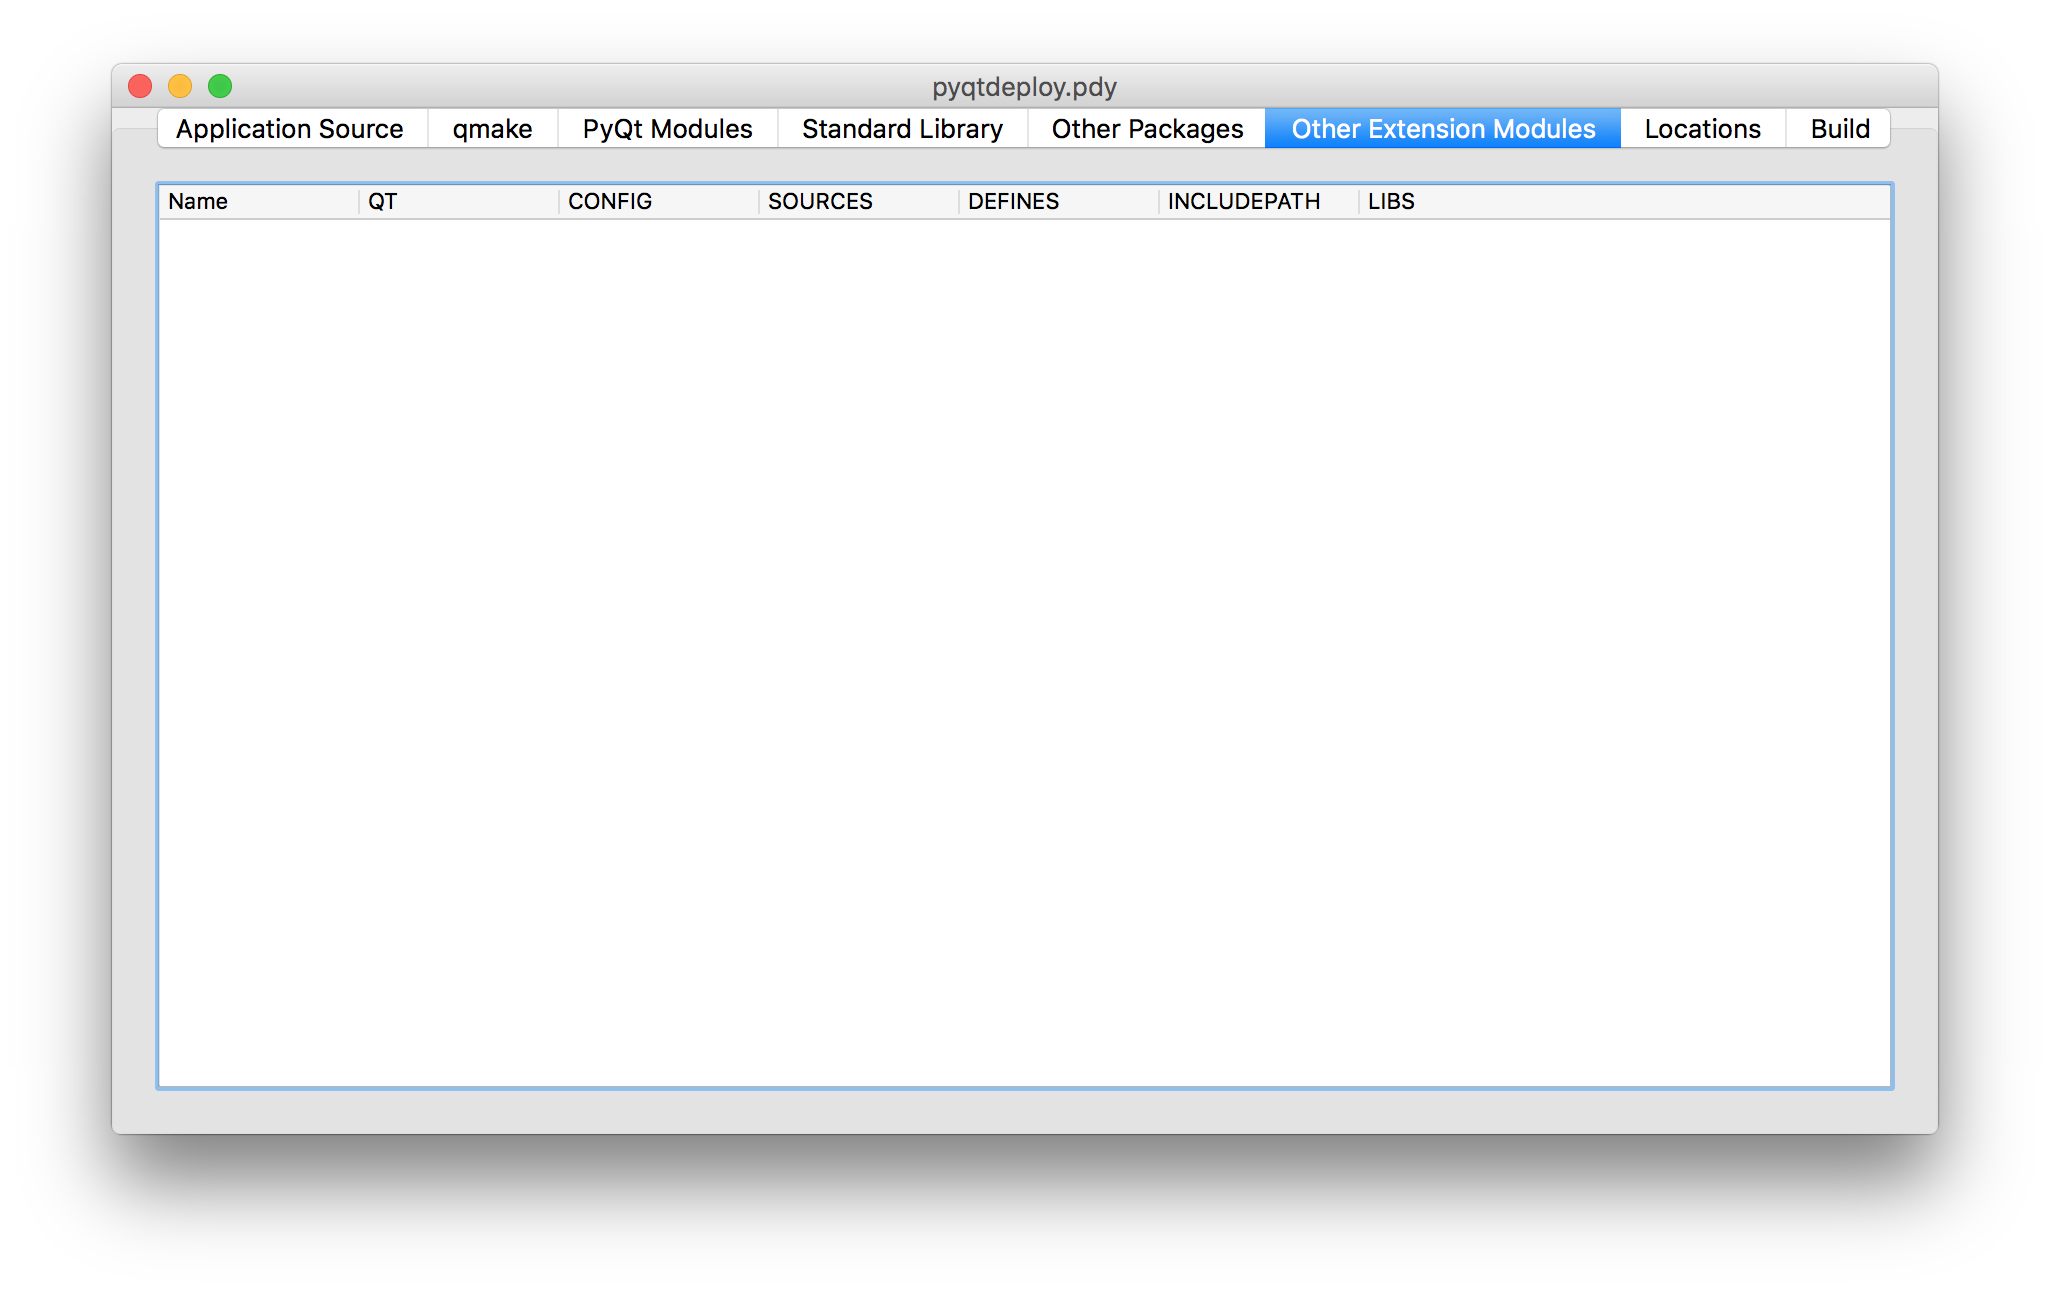
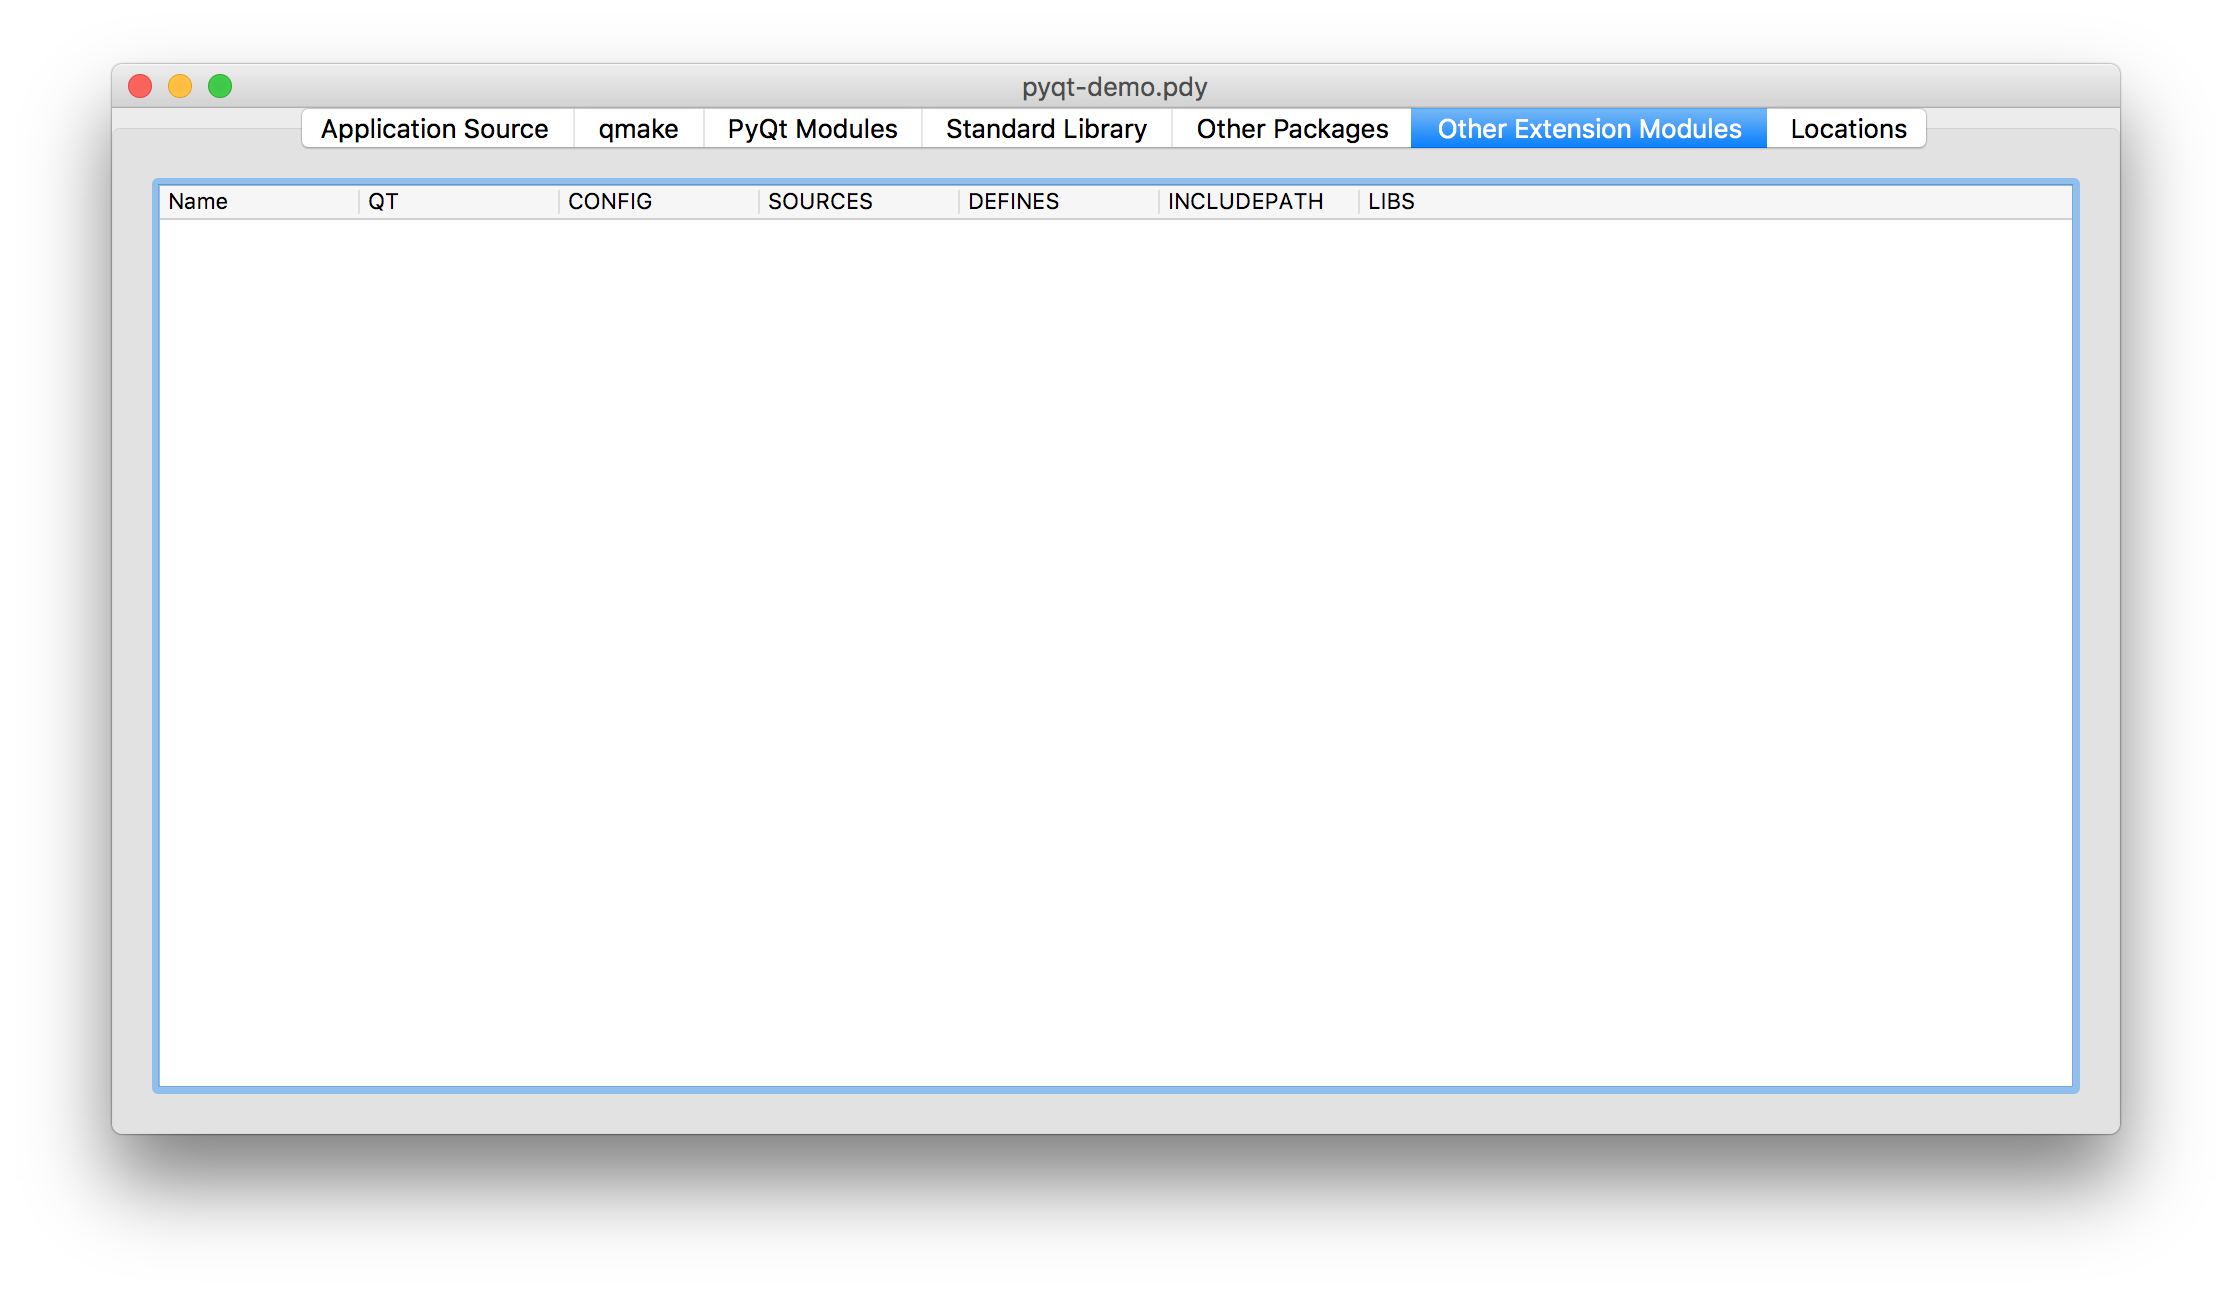
Updated the pyqtdeploy screenshots.

Changed region(s): [[0.0312, 0.0309, 0.7805, 0.8655], [0.8117, 0.0927, 0.9678, 0.8655]]

diff --git a/doc/pyqtdeploy.rst b/doc/pyqtdeploy.rst
@@ -543,76 +543,6 @@ The tab for defining the locations of various files and directories needed by
     optionally used to build a ``Makefile`` for the application.
 
 
-Building the Application
-------------------------
-
-Normally building an application is done from the command line.  However during
-the debugging of the deployment it is convenient to be able to complete the
-whole build process (generating code, running :program:`qmake`, running
-:program:`make` and running the final application executable) from within the
-GUI.
-
-The tab for building the application is shown below.
-
-.. image:: /images/build_tab.png
-    :align: center
-    :scale: 50
-
-The main area of the tab shows the output of the various stages of the build.
-
-**Build**
-    is clicked to build the application.  The application code and
-    :program:`qmake` ``.pro`` file will be generated in the build directory.
-    What else is done depends on the additional build steps that have been
-    specified.
-
-**No asserts**
-    is clicked to specify that all ``assert`` statements should be removed from
-    frozen Python code.
-
-**No docstrings**
-    is clicked to specify that all docstrings should be removed from frozen
-    Python code.
-
-**Clean before building**
-    is checked to specify that the build directory is deleted and recreated
-    before starting a new build.
-
-**Verbose output**
-    is checked specify that additional information is displayed during the
-    build process.
-
-**Resource files**
-    specifies the number of Qt ``.qrc`` resource files that are generated.  On
-    Windows, MSVC cannot cope with very large resource files and complains of a
-    lack of heap space.  If you run into this problem then try increasing the
-    the number of resource files generated.
-
-**Timeout**
-    specifies the number of seconds that the build processes are allowed to run
-    for before being timed out.
-
-**Run qmake**
-    is clicked to specify that :program:`qmake` will be run after generating
-    the application code.  If this is disabled the later build steps will be
-    disabled automatically.
-
-**Run make**
-    is clicked to specify that :program:`make` (or :program:`nmake` on Windows)
-    will be run after running :program:`qmake`.  The earlier build steps will
-    be enabled automatically.  If this is disabled the later build steps will
-    be disabled automatically.
-
-**Run application**
-    is clicked to specify that the application executable will be run after
-    running :program:`make`.  The earlier build steps will be enabled
-    automatically.
-
-    .. note::
-        This only makes sense if you are building natively and not
-        cross-compiling.
-
-
 Creating a Deployable Package
 -----------------------------
 
